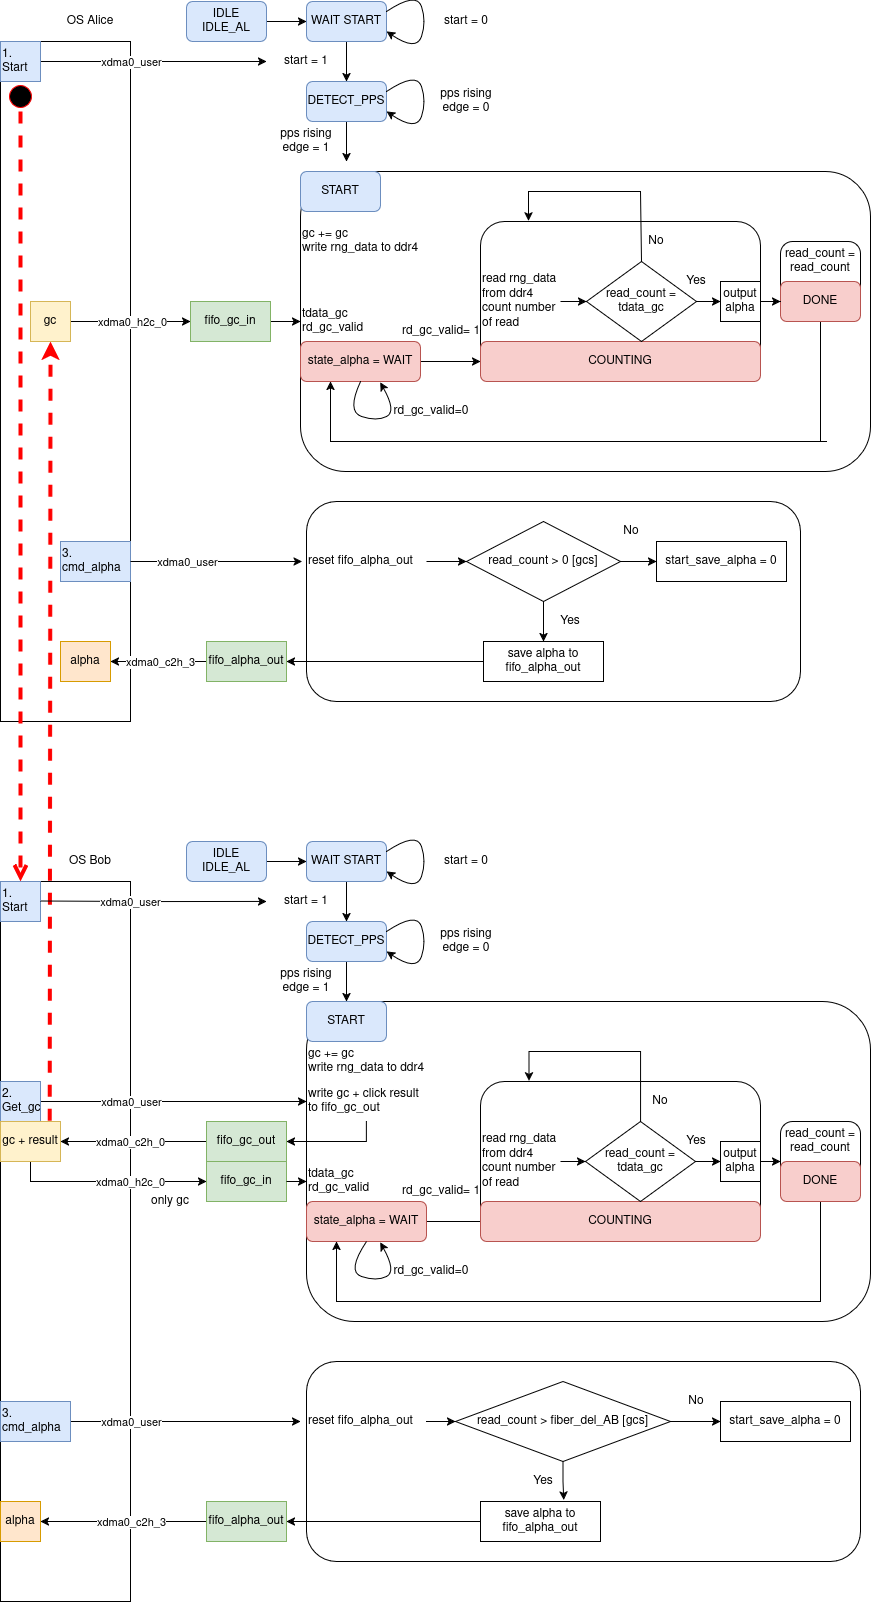
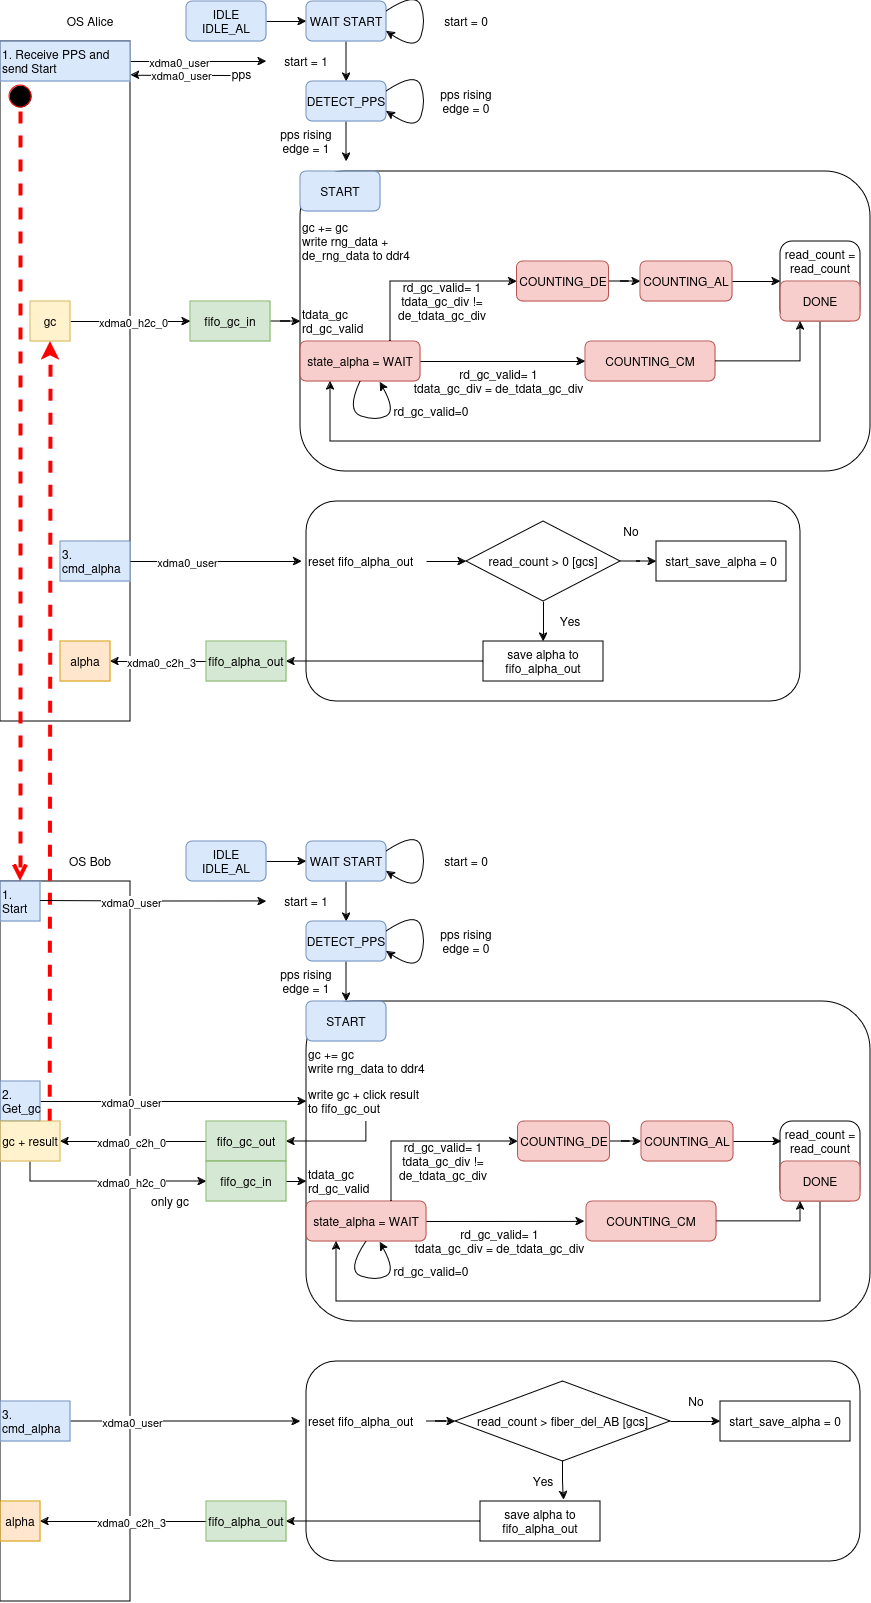
modify ddr4 counting states

diff --git a/general-doc/src/electronics/fpga/ddr4.md b/general-doc/src/electronics/fpga/ddr4.md
@@ -84,6 +84,10 @@ This is the picture describes the states in FPGA, the path of data between Alice
 
 ![ddr4 data flow](pics/ddr4_data_flow.png)
 
+Details in states COUNTING_*. It depends on the calibration result to jump to COUNTING_DE first for COUNTING_AL first.
+
+![ddr4 counting states](pics/ddr4_counting.png)
+
 ## Software control functions
 - Ddr_Data_Reg : Set registers
 
